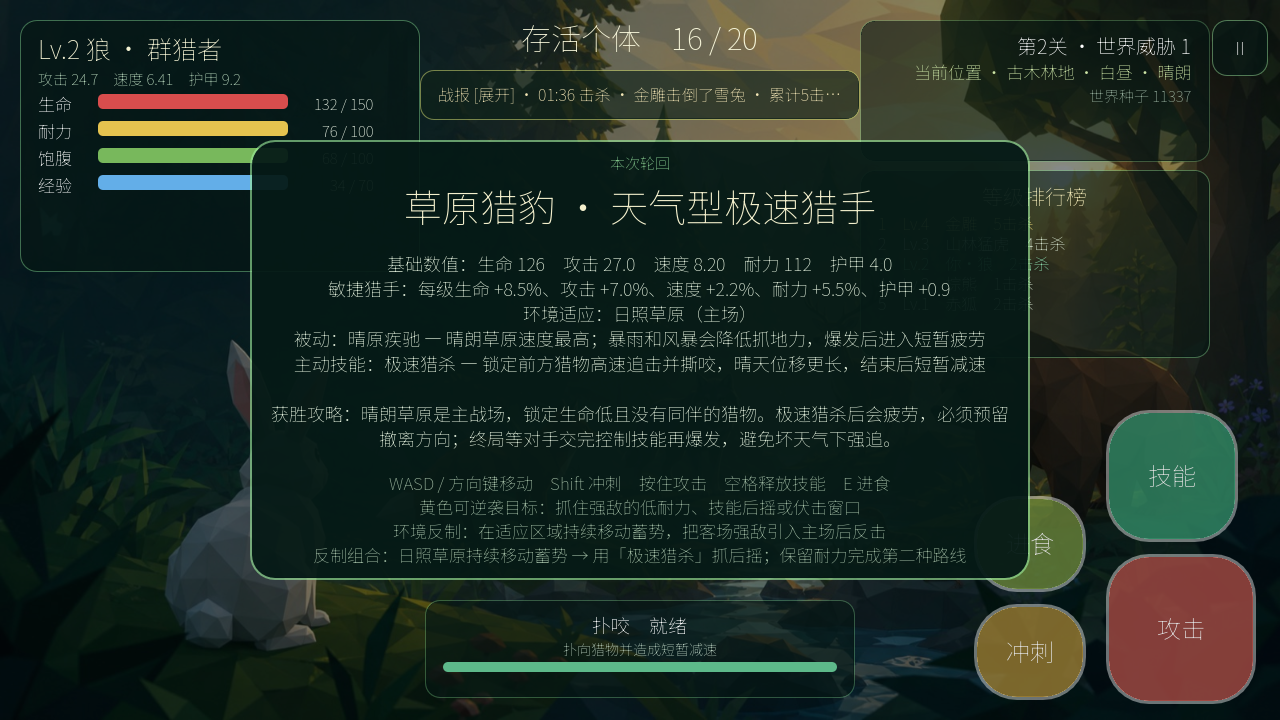
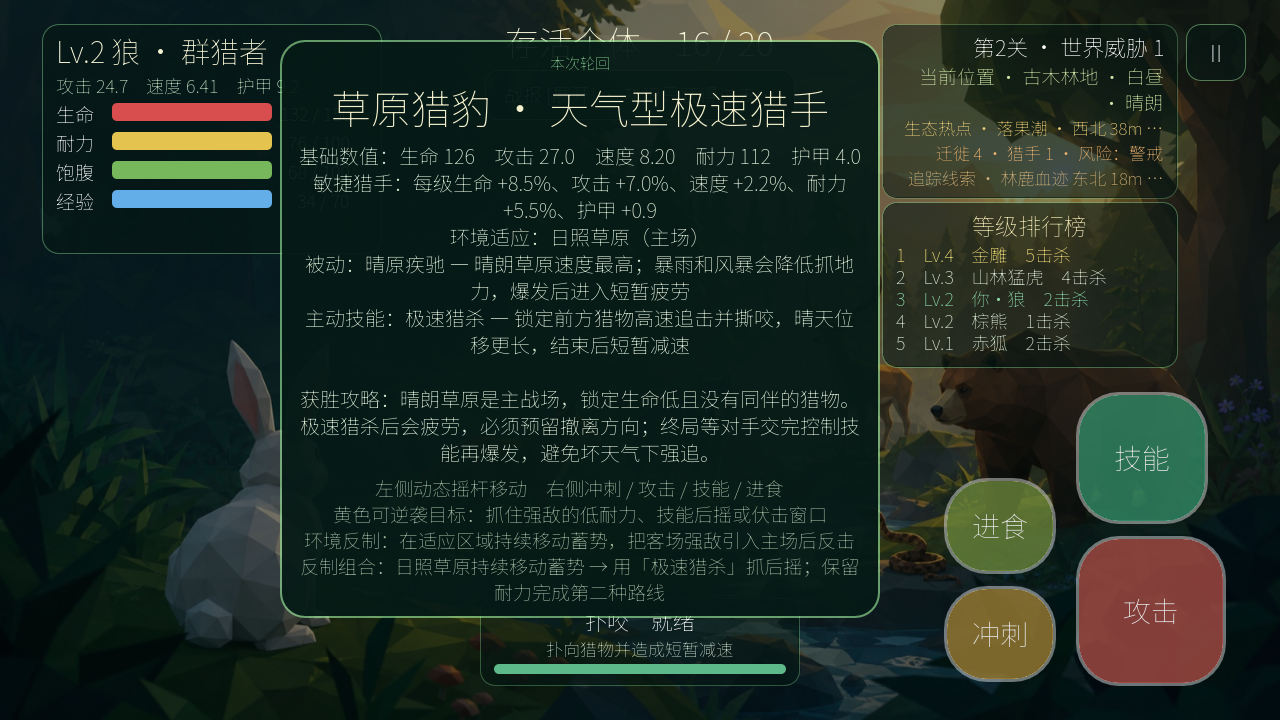
fix: adapt mobile ui density

Changed region(s): [[0.0312, 0.0306, 1.0, 0.9778], [0.2188, 0.0306, 0.3438, 0.0611]]

diff --git a/BUILDING.md b/BUILDING.md
@@ -1,4 +1,4 @@
-# 《生态轮回》V1.14 运行与导出
+# 《生态轮回》V1.15 运行与导出
 
 ## 直接运行
 
@@ -27,6 +27,8 @@ godot --path .
 | 暂停 | Esc | 右上暂停按钮 |
 
 普通攻击只在攻击范围内触发。食草物种吃绿色植物，肉食物种吃尸体，狐狸和熊两者都能吃。
+
+V1.15 会依据横屏安全区域的实际宽高自动选择手机紧凑 HUD 或平板舒展 HUD。手机上玩家状态、关卡信息、排行榜、战报、攻略和设置框会减少无效留白，但生命、耐力、饱腹、经验等字号及右侧主要触控按钮不会跟着缩小；非关键的世界种子会在紧凑 HUD 中隐藏。
 
 V1.14 中每关开局有 20–38 秒的生态建立期，关卡越高时间越短。AI 在此期间会建立路线、逃离威胁和观察资源；玩家若先攻击，受击者会立即进入反击或逃亡，建立期不是无敌时间。捕食 AI 击杀后会先进食新鲜尸体，玩家可利用这段窗口撤离、偷食或制造新的第三方冲突。
 
@@ -112,7 +114,7 @@ godot --headless --path . --export-debug iOS build/ios/EcoRebirth
 - 逻辑分辨率 1280×720，UI 使用锚点并允许宽屏扩展；
 - 原生移动端支持左右两个横屏方向；手机 Web 竖屏时会暂停并提示旋转；
 - Android/iOS HUD 与弹窗读取系统安全显示区域，避开刘海、圆角和底部手势区；
-- 小屏触控布局使用更大字号、至少 52 像素的普通按钮和 96–150 像素的主要动作按钮；
+- 小屏触控布局使用更大字号、紧凑信息框、至少 52 像素的普通按钮和 96–150 像素的主要动作按钮；较高平板自动恢复舒展信息密度；
 - Compatibility 渲染器，可运行于 WebGL 2 和移动端 OpenGL；
 - 无线程、无 GDExtension、无桌面专属 API；
 - 低多边形程序化动物和森林，场景不依赖大型外部模型；

diff --git a/docs/06_Godot技术设计.md b/docs/06_Godot技术设计.md
@@ -15,13 +15,15 @@
 
 Godot 官方建议让场景保持单一职责、低耦合，并由拥有者管理外部关系；自定义 Resource 可直接序列化、在 Inspector 编辑且适合版本控制。因此本项目采用“场景负责行为组合，Resource 负责数据”的结构。
 
-### 1.1 当前可玩版移动 UI 基线（V1.5）
+### 1.1 当前可玩版移动 UI 基线（V1.15）
 
 - 逻辑设计尺寸为 1280×720，使用 `canvas_items + expand` 兼容 16:9、超宽手机和 4:3 平板横屏。
 - Android/iOS 通过 `DisplayServer.get_display_safe_area()` 把物理安全区域换算为 Godot 逻辑边距；首页内容、HUD、弹窗和触控层共用同一套边距。
 - 手机 Web 无法依赖原生方向锁定，因此竖屏时由最高层 `OrientationGuard` 拦截输入并通知主流程暂停生态模拟。
 - 触控动作保持在右下两列，动态摇杆仍可在左侧下半区任意位置唤醒；普通可选控件至少 52 逻辑像素高，主要动作按钮保持 96–150 逻辑像素。
-- 手机 HUD 使用独立的大字号和紧凑宽度，教学与物种攻略位于触控区域上方；桌面布局继续使用原有信息密度。
+- 扣除安全区后，高度不超过 760 或宽度不超过 1120 逻辑像素时启用手机紧凑 HUD；更高的平板保持舒展布局，桌面继续使用原有信息密度。
+- 紧凑 HUD 只压缩状态框、信息框、排行榜、战报和弹窗的留白，不缩小生命、耐力、饱腹、经验的数值字号，也不缩小 96–150 逻辑像素的主要触控按钮。
+- 紧凑模式隐藏非关键的世界种子，并限制弹窗最多占安全区域的 94% 宽、92% 高；教学与物种攻略仍位于触控区域上方。
 - 安全区域每 0.45 秒复核一次，以覆盖不改变视口尺寸的 180 度横屏翻转，同时也监听视口尺寸变化。
 
 ## 2. 推荐项目目录

diff --git a/README.md b/README.md
@@ -1,6 +1,6 @@
 # 《生态轮回》游戏设计文档
 
-版本：可玩实现 V1.14 + GDD V1.0
+版本：可玩实现 V1.15 + GDD V1.0
 状态：首发可玩版本已完成
 引擎：Godot 4.7.1  
 视角：3D 斜俯视角
@@ -77,6 +77,16 @@
 ![V1.12 食物链迁徙与猎手围猎](docs/images/v24-food-chain-migration.png)
 
 ![V1.13 生态踪迹与危险记忆](docs/images/v25-ecology-traces.png)
+
+![V1.15 多机型紧凑手机 HUD](docs/images/v26-adaptive-mobile-ui.png)
+
+## V1.15 多机型界面适配
+
+- 手机横屏会按扣除刘海、灵动岛、圆角与手势区后的可用尺寸自动启用紧凑 HUD；较高的平板仍保留舒展布局。
+- 玩家状态框、关卡信息、排行榜、战报、敌方血条和技能提示减少空白边距与无效高度，保留原有大字号和精确数值。
+- 右上区域重新分层，紧凑模式隐藏非关键的世界种子，避免关卡信息溢出到排行榜；暂停按钮仍拥有独立触控空间。
+- 物种攻略、教学、自由模式、设置、结算和战况弹窗增加屏幕占用上限，并为右侧攻击、技能、进食与冲刺保留操作区。
+- 新增手机与平板布局判定、紧凑面板边界、弹窗占比和触控互不遮挡的自动校验。
 
 ## V1.14 稳定性与生态节奏
 
